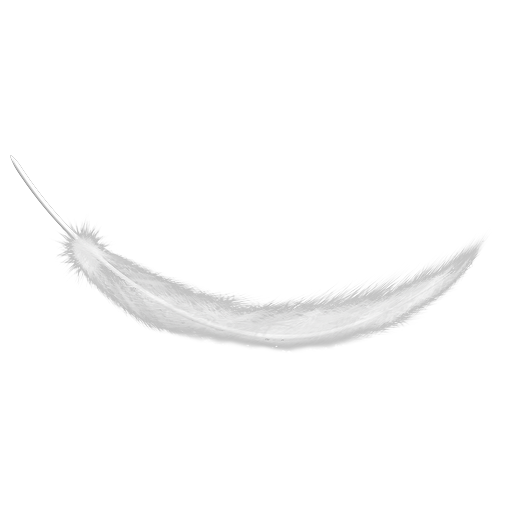
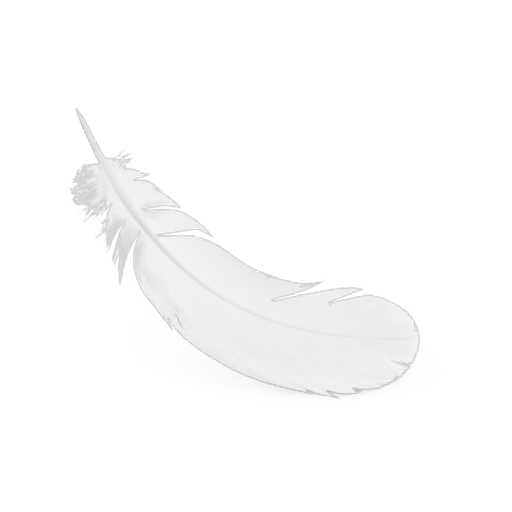
fix(3.6.93): 羽毛不再被裁断，z 序修好，换素材与双击图标
裁断三个原因：
- 素材 512x336 塞进 512 正方形，对角线 613 > 512，旋转 45 度必出画布
  -> 按对角线缩进去，外接圆 <= 画布 94%
- 渐隐范围固定 140px，羽毛半径可能更大，中心在屏内时羽毛已出去一半
  -> 渐隐范围改成 140 + 羽毛半径
- 生成点离屏太近，进场就是半截
  -> 挪到屏幕外 半径 + 40~180
另外 CompositingMode 从 SourceCopy 改回默认，重叠羽毛不再互相盖掉。

羽毛整片看不见：SetWindowPos(HWND_BOTTOM) 会压到 Progman 底下，
改成 FindWindow("Progman") 插在它紧后面 —— 桌面之上、普通窗口之下。
取不到 Progman 时退回 HWND_BOTTOM。

双击后左上角换 assets\egg.png（SakuraClock app.ico 32x32 放大到 96，
32 放大 3 倍用平滑不用锐化）；羽毛换新素材（自带 alpha）。

验证：build v3.6.93 / test.ps1 228 项全绿 / 实机截图确认完整飘落与边缘淡出

diff --git a/src/Forms/FeatherLayer.cs b/src/Forms/FeatherLayer.cs
@@ -55,6 +55,8 @@ namespace BingWallpaperLite
 
         [DllImport("user32.dll")] private static extern bool SetWindowPos(IntPtr hWnd, IntPtr hWndInsertAfter,
             int X, int Y, int cx, int cy, uint uFlags);
+        [DllImport("user32.dll", CharSet = CharSet.Auto)]
+        private static extern IntPtr FindWindow(string lpClassName, string lpWindowName);
         [DllImport("user32.dll")] private static extern IntPtr GetDC(IntPtr hWnd);
         [DllImport("user32.dll")] private static extern int ReleaseDC(IntPtr hWnd, IntPtr hDC);
         [DllImport("user32.dll")] private static extern bool UpdateLayeredWindow(IntPtr hwnd, IntPtr hdcDst,
@@ -81,6 +83,9 @@ namespace BingWallpaperLite
         private readonly Random rnd = new Random();
         private readonly Rectangle screen;
         private Bitmap buffer;
+        // 边缘渐隐用的遮罩，一组复用一个对象，只改矩阵
+        private readonly ImageAttributes fadeAttr = new ImageAttributes();
+        private readonly ColorMatrix fadeMatrix = new ColorMatrix();
 
         public FeatherLayer()
         {
@@ -125,9 +130,14 @@ namespace BingWallpaperLite
         protected override void OnShown(EventArgs e)
         {
             base.OnShown(e);
+            // 插到 Progman（桌面）的紧后面：桌面之上、所有普通窗口之下。
+            // 用 HWND_BOTTOM 会排到 Progman 底下，羽毛整片看不见 —— 这一点实测踩到过。
+            // Progman 找不到（少数多桌面/远程环境）就退一步用 HWND_BOTTOM，至少不挡人。
             try
             {
-                SetWindowPos(Handle, (IntPtr)HWND_BOTTOM, 0, 0, 0, 0,
+                IntPtr progman = FindWindow("Progman", null);
+                IntPtr after = progman != IntPtr.Zero ? progman : (IntPtr)HWND_BOTTOM;
+                SetWindowPos(Handle, after, 0, 0, 0, 0,
                     SWP_NOMOVE | SWP_NOSIZE | SWP_NOACTIVATE);
             }
             catch { }
@@ -146,16 +156,19 @@ namespace BingWallpaperLite
         private void Reset(Puff p, bool scatter)
         {
             p.X = rnd.Next(screen.Left, screen.Right);
+            // 重生时放到屏幕外足够远：羽毛显示尺寸最大约 512*0.72 = 369，
+            // 半高 185，再留 120 余量 —— 进屏那一刻已经是整根，不会看着像被切过
+            float halfMax = art != null ? art.Width * 0.40f : 200f;
             p.Y = scatter
                 ? rnd.Next(screen.Top, screen.Bottom)
-                : screen.Top - rnd.Next(40, 160);
+                : screen.Top - halfMax - rnd.Next(40, 180);
             p.Vx = (float)(rnd.NextDouble() * 20 - 10);
             p.Vy = (float)(22 + rnd.NextDouble() * 26);
             p.Rot = rnd.Next(0, 360);
             p.RotSpeed = (float)(rnd.NextDouble() * 26 - 13);
             p.Phase = (float)(rnd.NextDouble() * Math.PI * 2);
             p.PhaseSpeed = (float)(0.6 + rnd.NextDouble() * 1.2);
-            p.Scale = (float)(0.34 + rnd.NextDouble() * 0.30);
+            p.Scale = (float)(0.42 + rnd.NextDouble() * 0.30);
         }
 
         private void Step()
@@ -175,6 +188,27 @@ namespace BingWallpaperLite
             }
         }
 
+        /// <summary>
+        /// 靠近屏幕任一边界时淡出。全屏动画必然在边界处被窗口裁掉，
+        /// 与其让它「啪」地少一半，不如提前 140 像素慢慢隐掉。
+        /// </summary>
+        private float FadeAt(Puff p)
+        {
+            // 渐隐范围跟着羽毛自己的半径走：固定 140 对大盘子羽毛不够 ——
+            // 中心还在屏内、羽毛已经出去一半，看上去仍然像被切了一刀。
+            float margin = 140f + art.Width * p.Scale * 0.5f;
+            float dx1 = (p.X - screen.Left) / margin;
+            float dx2 = (screen.Right - p.X) / margin;
+            float dy1 = (p.Y - screen.Top) / margin;
+            float dy2 = (screen.Bottom - p.Y) / margin;
+            float f = dx1 < dx2 ? dx1 : dx2;
+            float g2 = dy1 < dy2 ? dy1 : dy2;
+            if (g2 < f) { f = g2; }
+            if (f >= 1f) { return 1f; }
+            if (f <= 0f) { return 0f; }
+            return f;
+        }
+
         /// <summary>整帧重绘到 ARGB 缓冲，再一次性推给分层窗口。</summary>
         private void DrawFrame()
         {
@@ -183,7 +217,6 @@ namespace BingWallpaperLite
             {
                 using (Graphics g = Graphics.FromImage(buffer))
                 {
-                    g.CompositingMode = CompositingMode.SourceCopy;
                     g.SmoothingMode = SmoothingMode.AntiAlias;
                     g.InterpolationMode = InterpolationMode.HighQualityBicubic;
                     g.PixelOffsetMode = PixelOffsetMode.HighQuality;
@@ -198,7 +231,22 @@ namespace BingWallpaperLite
                             g.TranslateTransform(p.X - screen.Left, p.Y - screen.Top);
                             g.RotateTransform(p.Rot);
                             g.ScaleTransform(p.Scale, p.Scale);
-                            g.DrawImage(art, -art.Width / 2f, -art.Height / 2f, art.Width, art.Height);
+                            float fade = FadeAt(p);
+                            if (fade <= 0.02f) { continue; }
+                            if (fade >= 0.995f)
+                            {
+                                g.DrawImage(art, -art.Width / 2f, -art.Height / 2f, art.Width, art.Height);
+                            }
+                            else
+                            {
+                                fadeMatrix.Matrix33 = fade;
+                                fadeAttr.SetColorMatrix(fadeMatrix);
+                                Rectangle dest = new Rectangle(
+                                    -(int)(art.Width / 2f), -(int)(art.Height / 2f),
+                                    art.Width, art.Height);
+                                g.DrawImage(art, dest, 0, 0, art.Width, art.Height,
+                                    GraphicsUnit.Pixel, fadeAttr);
+                            }
                         }
                         catch { }
                         finally { g.Restore(st); }

diff --git a/src/Forms/AboutForm.cs b/src/Forms/AboutForm.cs
@@ -202,6 +202,30 @@ namespace BingWallpaperLite
             return dst;
         }
 
+        /// <summary>
+        /// 双击之后换上的那张图。读嵌入的 egg.png（来自 SakuraClock 的 app.ico），
+        /// 没有就退回矢量羽毛 —— 素材缺失时彩蛋仍然能开。
+        /// </summary>
+        private static Image LoadEggIcon(int size)
+        {
+            try
+            {
+                Assembly asm = Assembly.GetExecutingAssembly();
+                using (Stream s = asm.GetManifestResourceStream("egg.png"))
+                {
+                    if (s != null)
+                    {
+                        using (Image raw = Image.FromStream(s))
+                        {
+                            return ScaleImage(raw, size);
+                        }
+                    }
+                }
+            }
+            catch { }
+            return FeatherArt.Render(size);
+        }
+
         /// <summary>窗口标题栏那个小图标：32×32 是 ico 里能安全转位图的尺寸。</summary>
         private static Icon LoadWindowIcon()
         {
@@ -226,7 +250,7 @@ namespace BingWallpaperLite
 
             try
             {
-                if (logoFeather == null) { logoFeather = FeatherArt.Render(96); }
+                if (logoFeather == null) { logoFeather = LoadEggIcon(96); }
                 logo.Image = logoFeather;
             }
             catch { }

diff --git a/src/Program.cs b/src/Program.cs
@@ -19,9 +19,9 @@ using Microsoft.Win32;
 [assembly: AssemblyTrademark("")]
 [assembly: AssemblyConfiguration("Release")]
 [assembly: AssemblyCulture("")]
-[assembly: AssemblyVersion("3.6.92.0")]
-[assembly: AssemblyFileVersion("3.6.92.0")]
-[assembly: AssemblyInformationalVersion("3.6.92")]
+[assembly: AssemblyVersion("3.6.93.0")]
+[assembly: AssemblyFileVersion("3.6.93.0")]
+[assembly: AssemblyInformationalVersion("3.6.93")]
 [assembly: ComVisible(false)]
 
 namespace BingWallpaperLite
@@ -31,7 +31,7 @@ namespace BingWallpaperLite
         // ---------------------------------------------------------------- 常量
 
         internal const string AppName     = "必应壁纸编年史";
-        internal const string AppVersion  = "3.6.92";
+        internal const string AppVersion  = "3.6.93";
         private const string TaskName    = "BingWallpaperChronicle";
         private const string RunValue    = "BingWallpaperChronicle";
 

diff --git a/CHANGELOG.md b/CHANGELOG.md
@@ -6,6 +6,31 @@
 
 ---
 
+## [3.6.93] - 2026-11-26
+
+### 修复（羽毛在屏幕边缘被裁断）
+
+三个原因叠在一起，逐个拆：
+
+| 原因 | 表现 | 改法 |
+| --- | --- | --- |
+| 素材 512×336 直接塞进 512 正方形画布 | 对角线 613 > 512，旋转 45° 时四角出画布 | 按对角线缩进去：外接圆 ≤ 画布 94%，任意角度都在框内 |
+| 渐隐范围固定 140px | 羽毛半径可能超过 140，中心还在屏内、羽毛已出去一半 | 渐隐范围改成 `140 + 羽毛半径`，跟着每根的大小走 |
+| 生成点离屏幕太近 | 刚从上方进场时就是半截 | 生成位置改到屏幕外 `半径 + 40~180`，进屏时已是整根 |
+
+另外把 `CompositingMode` 从 `SourceCopy` 改回默认：前者画第二根时会把第一根盖掉（连 alpha 一起），重叠处会出现硬边。
+
+### 修复（羽毛整片看不见）
+
+`SetWindowPos(HWND_BOTTOM)` 会把窗口压到 Progman（桌面）**底下**，于是羽毛在桌面壁纸层看不到，只在桌面图标之下。改成用 `FindWindow("Progman")` 拿到桌面窗口，插在它紧后面 —— 桌面之上、所有普通窗口之下，这才是「桌面上的动画」该待的位置。Progman 取不到时（少数多桌面/远程环境）退回 `HWND_BOTTOM`，至少不挡人。
+
+### 变更（双击换成指定图标、羽毛换素材）
+
+* 双击后左上角换成 `assets\egg.png`（来自 `SakuraClock\assets\app.ico` 的 32×32 条目，放大到 96×96 并做轻微平滑 —— 32 放大 3 倍不锐化比锐化耐看）
+* 飘落的羽毛换成新素材 `白色羽毛PNG透明`（512×336，自带 alpha）
+
+---
+
 ## [3.6.92] - 2026-11-26
 
 ### 新增（副标题与左上角图标）
